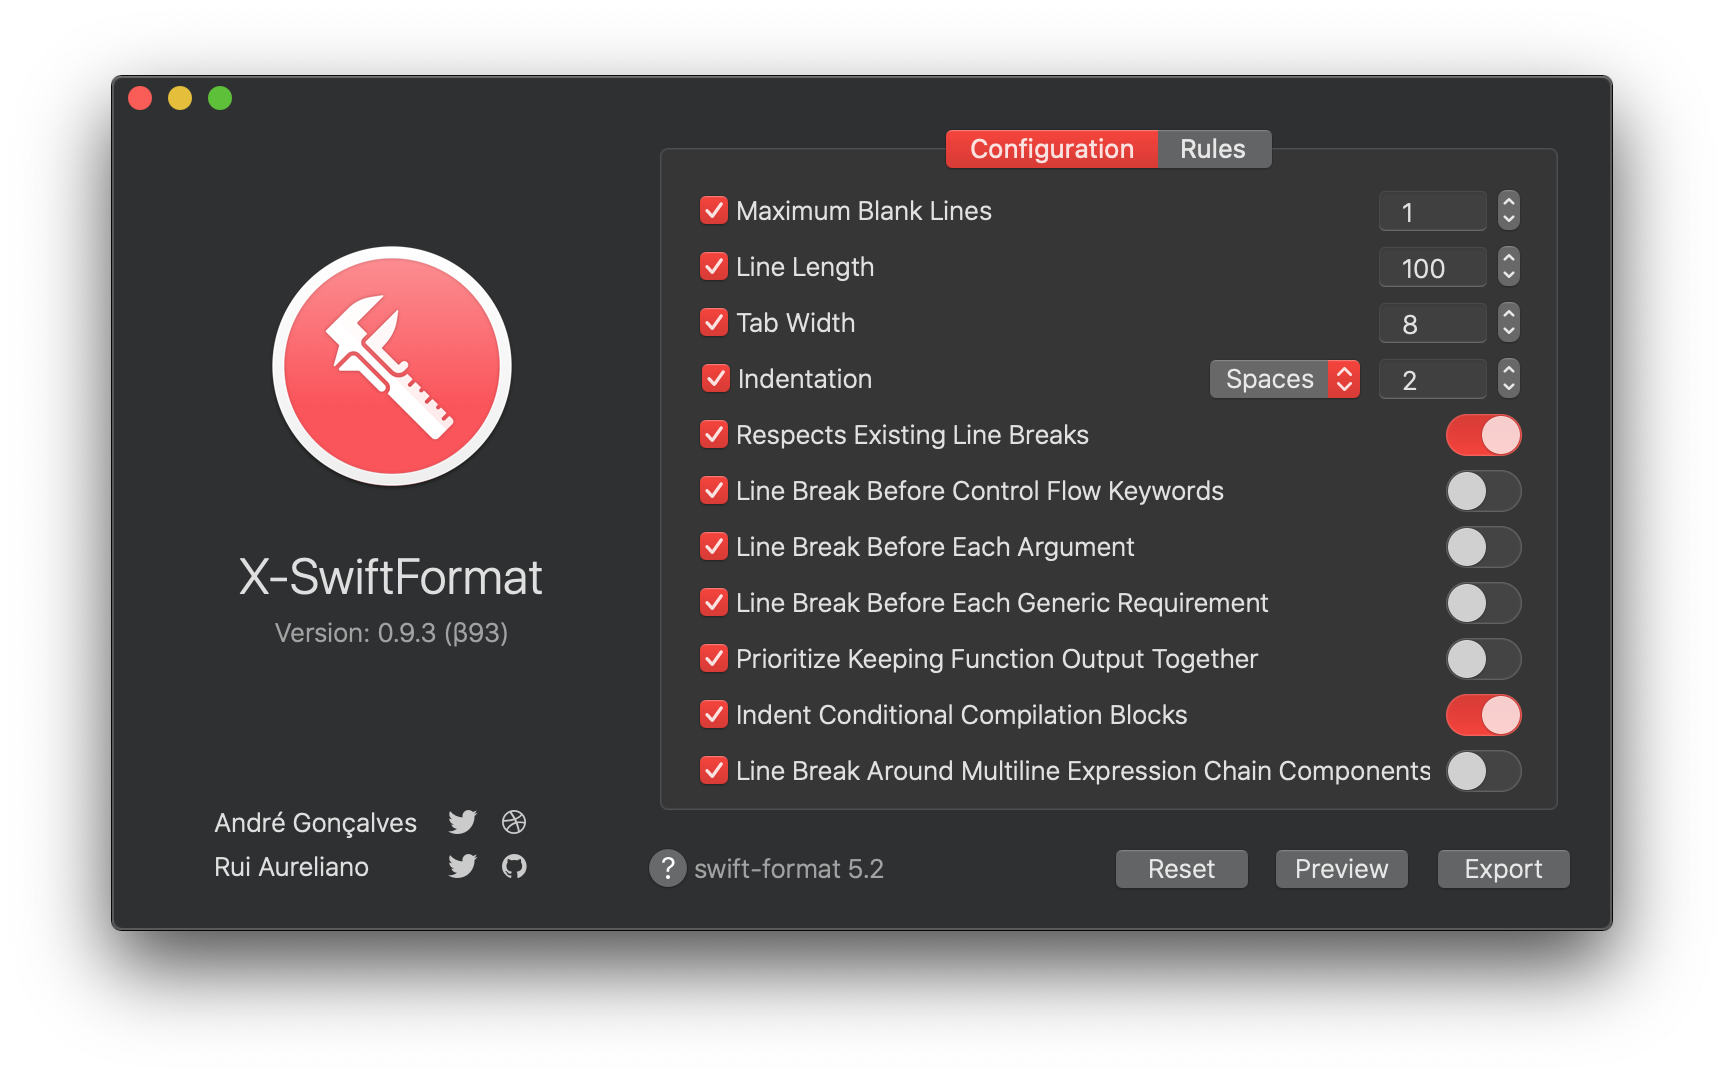
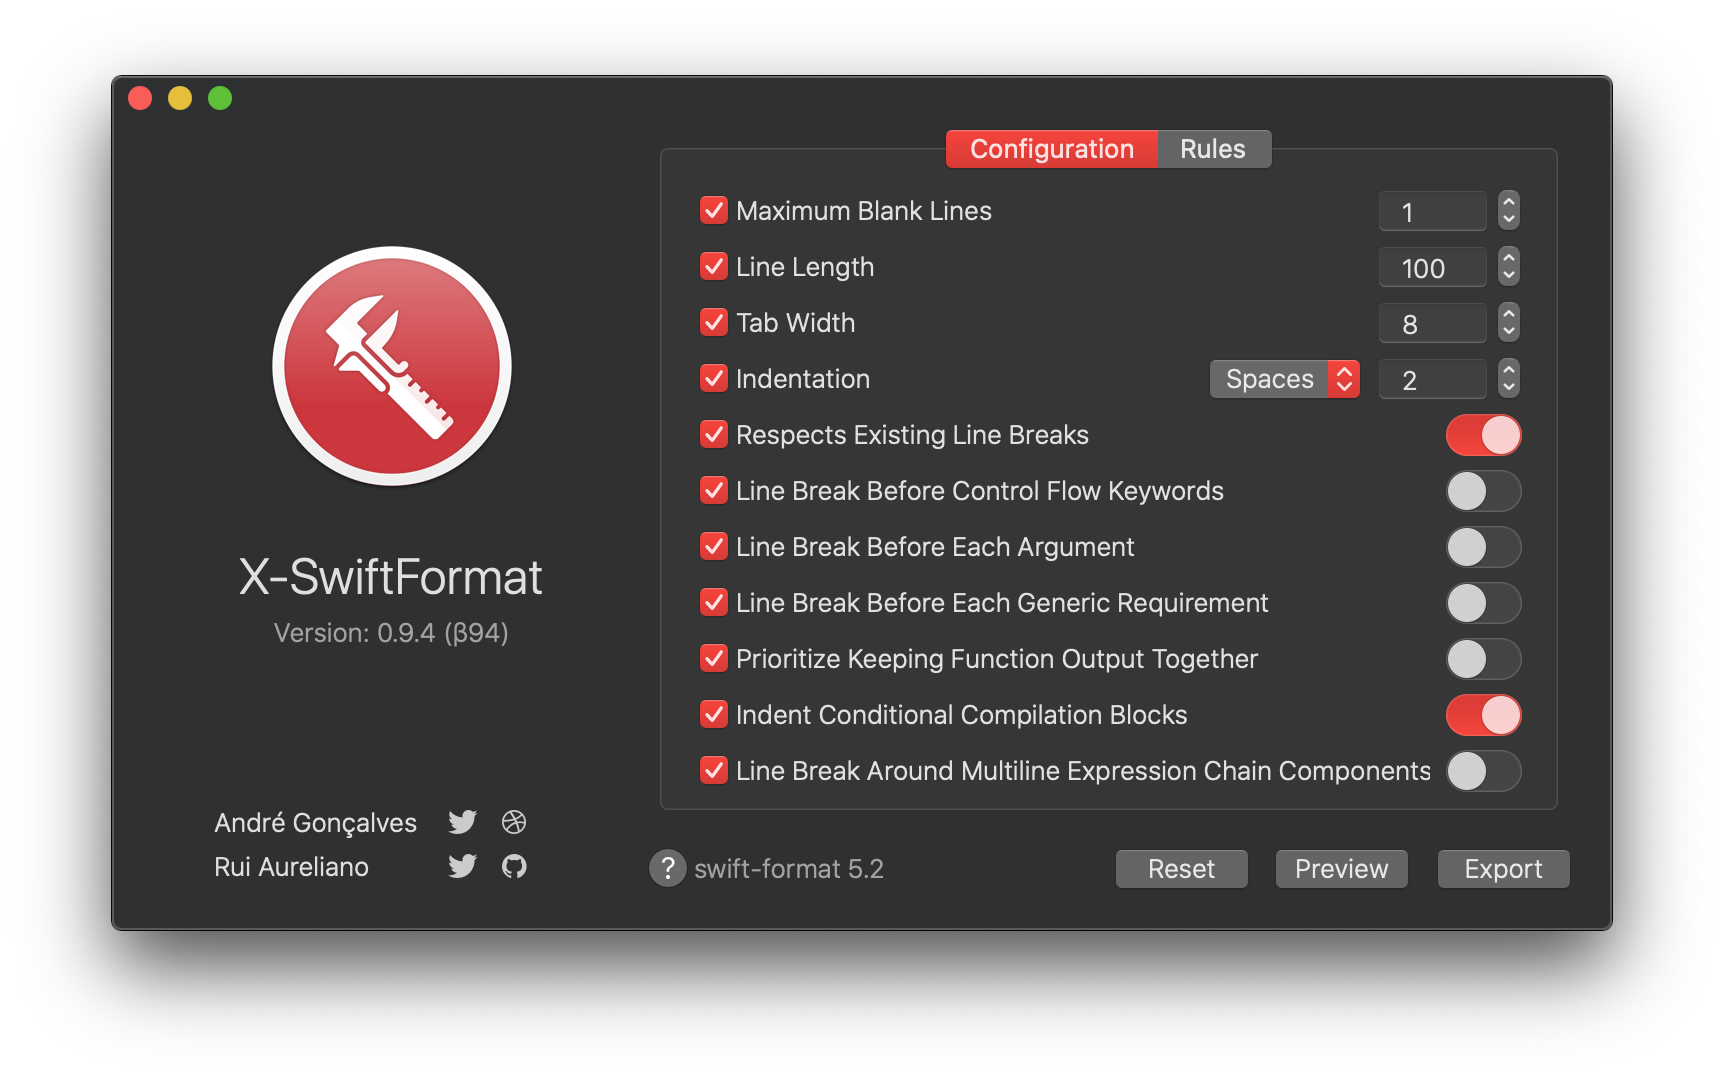
Version 0.9.4

diff --git a/README.md b/README.md
@@ -2,7 +2,7 @@
 
 ![](./assets/xsf_header.png)
 
-### 🔗 Download [X-SwiftFormat 0.9.3 (β93)](https://github.com/ruiaureliano/X-SwiftFormat/releases/download/β93/x-swiftformat_0.9.3_93.zip)
+### 🔗 Download [X-SwiftFormat 0.9.4 (β94)](https://github.com/ruiaureliano/X-SwiftFormat/releases/download/β94/x-swiftformat_0.9.4_94.zip)
 ### 💡 Check [Documentation](https://github.com/ruiaureliano/X-SwiftFormat/blob/master/DOCS.md)
 
 ---
